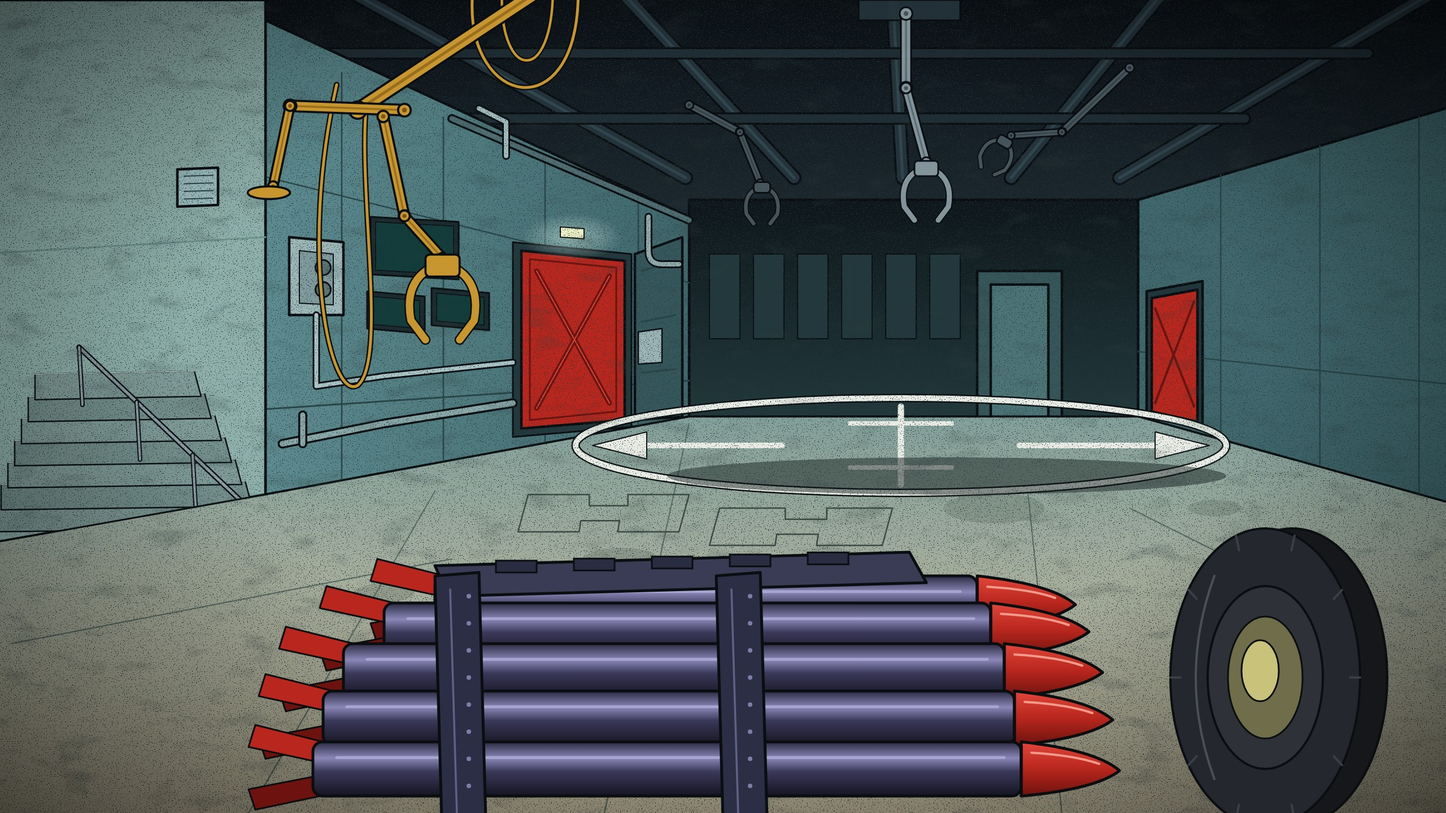
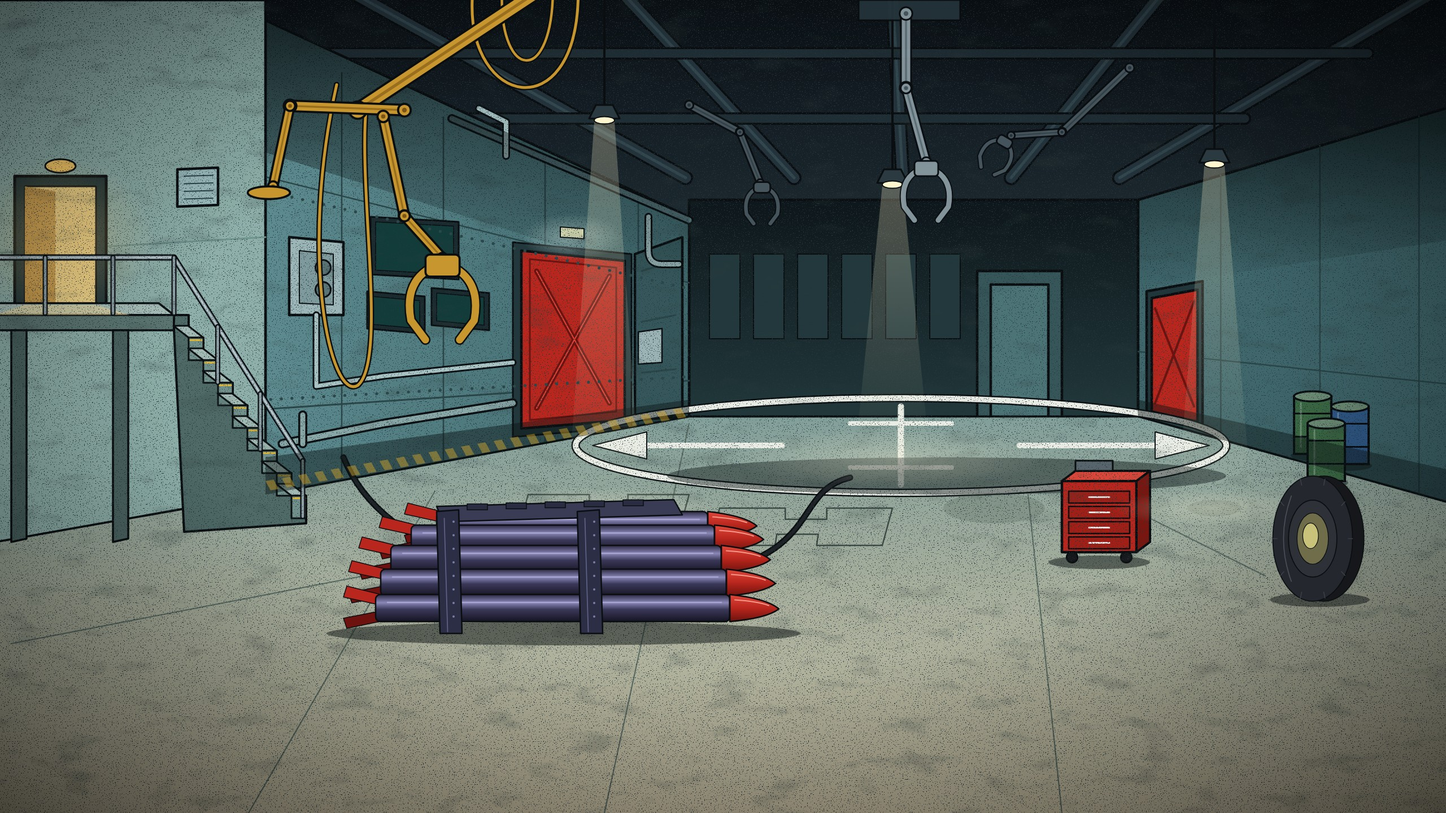
Hangar backdrop draft 2: stairs to a landing, props set back, lighting
- Stairs climb beside the pillar to a landing with a lit doorway up to the yard.
- Missile crate and tyre set back at half size; tool chest, oil drums and a
  power cable fill the floor.
- Hanging work lamps with light cones and floor pools, ceiling and corner
  shading, hazard stripes and rivets.
- The jet render uses 4x MSAA at double resolution for clean edges.

Claude-Session: https://claude.ai/code/session_01Jj18mYDWBx32ErxBPmLBu9

diff --git a/tools/prepare_hangar_art.py b/tools/prepare_hangar_art.py
@@ -120,6 +120,18 @@ def defs() -> str:
   <radialGradient id="glow" cx="0.5" cy="0.5" r="0.5">
     <stop offset="0" stop-color="#d8f0e8" stop-opacity="0.55"/><stop offset="1" stop-color="#d8f0e8" stop-opacity="0"/>
   </radialGradient>
+  <radialGradient id="warm" cx="0.5" cy="0.5" r="0.5">
+    <stop offset="0" stop-color="#ffd27a" stop-opacity="0.35"/><stop offset="1" stop-color="#ffd27a" stop-opacity="0"/>
+  </radialGradient>
+  <radialGradient id="pool" cx="0.5" cy="0.5" r="0.5">
+    <stop offset="0" stop-color="#f4f0d2" stop-opacity="0.32"/><stop offset="1" stop-color="#f4f0d2" stop-opacity="0"/>
+  </radialGradient>
+  <linearGradient id="cone" x1="0" y1="0" x2="0" y2="1">
+    <stop offset="0" stop-color="#fff4cc" stop-opacity="0.28"/><stop offset="1" stop-color="#fff4cc" stop-opacity="0"/>
+  </linearGradient>
+  <linearGradient id="shadeDown" x1="0" y1="0" x2="0" y2="1">
+    <stop offset="0" stop-color="#050a0c" stop-opacity="0.7"/><stop offset="1" stop-color="#050a0c" stop-opacity="0"/>
+  </linearGradient>
   <radialGradient id="vignette" cx="0.5" cy="0.45" r="0.75">
     <stop offset="0.5" stop-color="#000" stop-opacity="0"/><stop offset="1" stop-color="#000" stop-opacity="0.65"/>
   </radialGradient>
@@ -266,20 +278,42 @@ def wall_details() -> str:
 
 
 def stairs() -> str:
-    """Concrete stairs climbing to the left, with a railing."""
+    """Concrete stairs beside the pillar, climbing to a landing with a lit doorway up to the yard."""
     o = []
-    steps = 7
-    for k in range(steps):
-        y = 312 - k * 13
-        x0 = -110 + k * 4
-        x1 = 44 - k * 6
-        o.append(poly([(x0, y - 13), (x1, y - 15), (x1 + 4, y), (x0, y + 2)], "#7f9a96" if k % 2 == 0 else "#748f8b", width=2.5))
-        o.append(line((x0, y - 13), (x1, y - 15), "#a9c0bb", 2))
-    # Railing.
-    o.append(path([("M", 40, 300), ("L", -60, 205)], stroke=INK, width=10) + path([("M", 40, 300), ("L", -60, 205)], stroke=STEEL, width=5))
-    for t in (0.0, 0.33, 0.66, 1.0):
-        a = lerp((40, 300), (-60, 205), t)
-        o.append(line(a, (a[0] + 2, a[1] + 34), INK, 8) + line(a, (a[0] + 2, a[1] + 34), STEEL, 4))
+    land_y, x_top, x_bot, y_bot, n = 186, -4, 74, 306, 9
+    dx, dy = (x_bot - x_top) / n, (y_bot - land_y) / n
+    depth = (-9, -7)  # how far treads recede towards the wall
+    # Doorway in the pillar above the landing: warm light spilling out.
+    o.append(poly([(-98, 104), (-44, 104), (-44, 180), (-98, 180)], "#24383b", width=5))
+    o.append(poly([(-92, 110), (-50, 110), (-50, 180), (-92, 180)], "#f2d58a", width=3))
+    o.append(poly([(-92, 110), (-74, 113), (-74, 180), (-92, 180)], "#c99a4a", stroke=None))
+    o.append(f'<ellipse cx="{X(-71)}" cy="{Y(98)}" rx="{9 * S}" ry="{4 * S}" fill="#ffcf6a" stroke="{INK}" stroke-width="3"/>')
+    o.append(f'<ellipse cx="{X(-71)}" cy="{Y(140)}" rx="{55 * S}" ry="{48 * S}" fill="url(#warm)"/>')
+    # Landing slab on two posts.
+    o.append(poly([(-122, land_y - 7), (x_top + depth[0], land_y + depth[1]), (x_top, land_y), (-122, land_y)], "#a9bfb9", width=3.5))
+    o.append(poly([(-122, land_y), (x_top, land_y), (x_top, land_y + 9), (-122, land_y + 9)], "#5d7773", width=3.5))
+    o.append(poly([(-92, 180), (-50, 180), (-30, land_y), (-110, land_y)], "#f5dc9a", stroke=None, extra='opacity="0.55"'))
+    for px in (-100, -40):
+        o.append(poly([(px, land_y + 9), (px + 9, land_y + 9), (px + 9, 318), (px, 320)], "#4c6562", width=3.5))
+    # Solid side of the flight, then treads and risers top to bottom.
+    side = [(x_top, land_y + 9)]
+    for k in range(n):
+        side += [(x_top + k * dx, land_y + k * dy), (x_top + (k + 1) * dx, land_y + k * dy)]
+    side += [(x_bot, y_bot), (x_bot, y_bot + 3), (x_top + 6, y_bot + 8)]
+    o.append(poly(side, "#4f6a67", width=4))
+    for k in range(n - 1):
+        y = land_y + (k + 1) * dy
+        x0, x1 = x_top + (k + 1) * dx, x_top + (k + 2) * dx
+        o.append(poly([(x0 + depth[0], y + depth[1]), (x1 + depth[0], y + depth[1]), (x1, y), (x0, y)], "#a3bab4", width=3))
+        o.append(poly([(x0, y), (x1, y), (x1, y + dy), (x0, y + dy)], "#71908b", width=3))
+        o.append(line((x0 + 1, y + 1.5), (x1 - 1, y + 1.5), "#e0b532", 3))  # worn safety nosing
+    # Railing up the flight and along the landing edge.
+    rail = [(x_bot - 2, y_bot - 34), (x_top, land_y - 34), (-120, land_y - 34)]
+    for a_, b_ in zip(rail, rail[1:]):
+        o.append(line(a_, b_, INK, 11) + line(a_, b_, STEEL, 6) + line(a_, b_, "#c5d3d8", 2))
+    posts = [lerp(rail[0], rail[1], t) for t in (0.0, 0.33, 0.66, 1.0)] + [(-40, land_y - 34), (-80, land_y - 34), (-118, land_y - 34)]
+    for p_ in posts:
+        o.append(line(p_, (p_[0], p_[1] + 33), INK, 9) + line(p_, (p_[0], p_[1] + 33), STEEL, 4.5))
     return "\n".join(o)
 
 
@@ -339,7 +373,11 @@ def arms() -> str:
 
 def missile_crate() -> str:
     """A strapped bundle of red-tipped missiles in the left foreground."""
-    o = ['<g id="crate">']
+    # Drawn at the reference's foreground size, then set back beside the left wall at half size.
+    k = 0.5
+    tx, ty = X(96) - X(40) * k, Y(374) - Y(484) * k
+    o = [f'<g id="crate" transform="translate({tx:.1f} {ty:.1f}) scale({k})">']
+    o.append(f'<ellipse cx="{X(300)}" cy="{Y(484)}" rx="{280 * S}" ry="{14 * S}" fill="#0d1414" opacity="0.5"/>')
     rows = [(360, 4), (388, 5), (418, 5), (450, 5)]
     for (y, n) in rows:
         pass
@@ -372,7 +410,10 @@ def missile_crate() -> str:
 
 def tyre() -> str:
     cx, cy = 640, 400
-    o = ['<g id="tyre">']
+    k = 0.42
+    tx, ty = X(668) - X(cx) * k, Y(318) - Y(cy) * k
+    o = [f'<g id="tyre" transform="translate({tx:.1f} {ty:.1f}) scale({k})">']
+    o.append(f'<ellipse cx="{X(cx + 10)}" cy="{Y(cy + 86)}" rx="{70 * S}" ry="{10 * S}" fill="#0d1414" opacity="0.5"/>')
     o.append(f'<ellipse cx="{X(cx + 16)}" cy="{Y(cy)}" rx="{56 * S}" ry="{88 * S}" fill="#15171b" stroke="{INK}" stroke-width="4"/>')
     o.append(f'<ellipse cx="{X(cx)}" cy="{Y(cy)}" rx="{56 * S}" ry="{88 * S}" fill="#24272d" stroke="{INK}" stroke-width="4"/>')
     for k in range(10):
@@ -398,11 +439,72 @@ def grime() -> str:
 <rect x="0" y="0" width="{W}" height="{H}" fill="url(#vignette)"/>"""
 
 
+def props() -> str:
+    """Floor clutter: a power cable to the jet, a rolling tool chest and oil drums."""
+    o = []
+    # Power cable from the wall junction box, snaking across the floor to the jet.
+    cable = [("M", 96, 270), ("C", 120, 330, 210, 352, 300, 340), ("C", 380, 330, 360, 290, 395, 282)]
+    o.append(path(cable, stroke=INK, width=11) + path(cable, stroke="#1d2226", width=6))
+    # Rolling tool chest.
+    x, y = 520, 330
+    o.append(f'<ellipse cx="{X(x + 22)}" cy="{Y(y + 2)}" rx="{30 * S}" ry="{4 * S}" fill="#0d1414" opacity="0.5"/>')
+    o.append(poly([(x, y - 46), (x + 44, y - 46), (x + 44, y - 4), (x, y - 4)], "#b8261d", width=4.5))
+    o.append(poly([(x, y - 46), (x + 8, y - 52), (x + 52, y - 52), (x + 44, y - 46)], "#d9473a", width=4))
+    o.append(poly([(x + 44, y - 46), (x + 52, y - 52), (x + 52, y - 10), (x + 44, y - 4)], "#7a1610", width=4))
+    for k in range(4):
+        yy = y - 40 + k * 9
+        o.append(poly([(x + 4, yy), (x + 40, yy), (x + 40, yy + 7), (x + 4, yy + 7)], "#a11f17", width=2.5))
+        o.append(line((x + 16, yy + 3.5), (x + 28, yy + 3.5), "#e6e6e6", 3))
+    for wx in (x + 6, x + 38):
+        o.append(f'<circle cx="{X(wx)}" cy="{Y(y - 1)}" r="{3.2 * S}" fill="#15171b" stroke="{INK}" stroke-width="3"/>')
+    o.append(poly([(x + 8, y - 58), (x + 30, y - 58), (x + 30, y - 52), (x + 8, y - 52)], "#58646b", width=3))  # toolbox on top
+    # Oil drums by the right wall.
+    for (dx, dy, col) in [(668, 268, "#3c6b45"), (690, 274, "#2f5a8a"), (676, 284, "#3c6b45")]:
+        o.append(f'<ellipse cx="{X(dx)}" cy="{Y(dy + 1)}" rx="{13 * S}" ry="{3 * S}" fill="#0d1414" opacity="0.45"/>')
+        o.append(f'<rect x="{X(dx - 11)}" y="{Y(dy - 34)}" width="{22 * S}" height="{34 * S}" fill="{col}" stroke="{INK}" stroke-width="4"/>')
+        for band in (0.3, 0.7):
+            o.append(line((dx - 11, dy - 34 + 34 * band), (dx + 11, dy - 34 + 34 * band), INK, 3))
+        o.append(f'<ellipse cx="{X(dx)}" cy="{Y(dy - 34)}" rx="{11 * S}" ry="{3 * S}" fill="#6f8f78" stroke="{INK}" stroke-width="3.5"/>')
+        o.append(line((dx - 7, dy - 30), (dx - 7, dy - 4), "#ffffff", 3, 'opacity="0.25"'))
+    return "\n".join(o)
+
+
+def lighting() -> str:
+    """Hanging work lamps with light cones and pools, plus shading under the ceiling and in corners."""
+    o = []
+    # Shade: the top of the walls falls into the ceiling's darkness; the floor corner gets AO.
+    o.append(poly([(50, 12), (300, 128), (300, 170), (50, 90)], "url(#shadeDown)", stroke=None))
+    o.append(poly([(565, 118), (760, 60), (760, 140), (565, 170)], "url(#shadeDown)", stroke=None))
+    o.append(poly([(50, 270), (300, 236), (300, 246), (50, 292)], "#0b1414", stroke=None, extra='opacity="0.45"'))
+    o.append(poly([(565, 236), (760, 280), (760, 300), (565, 246)], "#0b1414", stroke=None, extra='opacity="0.45"'))
+    # Hazard stripes along the foot of the left wall.
+    for k in range(26):
+        u0, u1 = k / 26, (k + 0.5) / 26
+        a0, a1 = lerp((50, 284), (300, 240), u0), lerp((50, 284), (300, 240), u1)
+        o.append(poly([a0, a1, (a1[0] + 3, a1[1] + 5.5), (a0[0] + 3, a0[1] + 5.5)], "#d9a92a", stroke=None, extra='opacity="0.45"'))
+    # Lamps: shade, bulb, a soft cone and a pool of light on the floor.
+    for (lx, ly, fy, fr) in [(250, 70, 300, 70), (420, 108, 270, 95), (610, 96, 300, 60)]:
+        o.append(line((lx, 0), (lx, ly - 8), INK, 4))
+        o.append(poly([(lx - 22, fy - 2), (lx - 6, ly + 2), (lx + 6, ly + 2), (lx + 22, fy - 2)], "url(#cone)", stroke=None))
+        o.append(f'<ellipse cx="{X(lx)}" cy="{Y(fy)}" rx="{fr * S}" ry="{fr * 0.18 * S}" fill="url(#pool)"/>')
+        o.append(poly([(lx - 9, ly), (lx + 9, ly), (lx + 5, ly - 8), (lx - 5, ly - 8)], "#2b3a40", width=3))
+        o.append(f'<ellipse cx="{X(lx)}" cy="{Y(ly + 1)}" rx="{6 * S}" ry="{2.2 * S}" fill="#fff6d0" stroke="{INK}" stroke-width="2"/>')
+    # Rivet rows on the left wall panels.
+    for v in (0.36, 0.8):
+        for i in range(40):
+            p = quad_pt(LW, (i + 0.5) / 40, v)
+            o.append(f'<circle cx="{X(p[0])}" cy="{Y(p[1])}" r="2.6" fill="#2c474a"/>')
+    return "\n".join(o)
+
+
 def build_svg() -> str:
     layers = [
-        ('back', room() + wall_details() + stairs()),
+        ('back', room() + wall_details()),
         ('floor', floor()),
+        ('stairs', stairs()),
+        ('props', props()),
         ('grime', grime()),
+        ('light', lighting()),
         ('arms', arms()),
         ('fore', missile_crate() + tyre()),
     ]
@@ -435,8 +537,10 @@ def render_jet(out: Path) -> None:
     from PIL import Image
     with tempfile.TemporaryDirectory() as tmp:
         raw = Path(tmp) / "jet.png"
-        subprocess.run(["xvfb-run", "-a", "-s", f"-screen 0 {W}x{H}x24", "godot", "--path", str(ROOT),
-                        "--rendering-driver", "opengl3", "--resolution", f"{W}x{H}", "--", f"--hangarjet={raw}"],
+        # Rendered at twice the canvas size (with 4x MSAA in the game) and scaled down: clean edges.
+        rw, rh = W * 2, H * 2
+        subprocess.run(["xvfb-run", "-a", "-s", f"-screen 0 {rw}x{rh}x24", "godot", "--path", str(ROOT),
+                        "--rendering-driver", "opengl3", "--resolution", f"{rw}x{rh}", "--", f"--hangarjet={raw}"],
                        check=True, capture_output=True)
         jet = Image.open(raw).convert("RGBA")
     jet = jet.crop(jet.getbbox())
